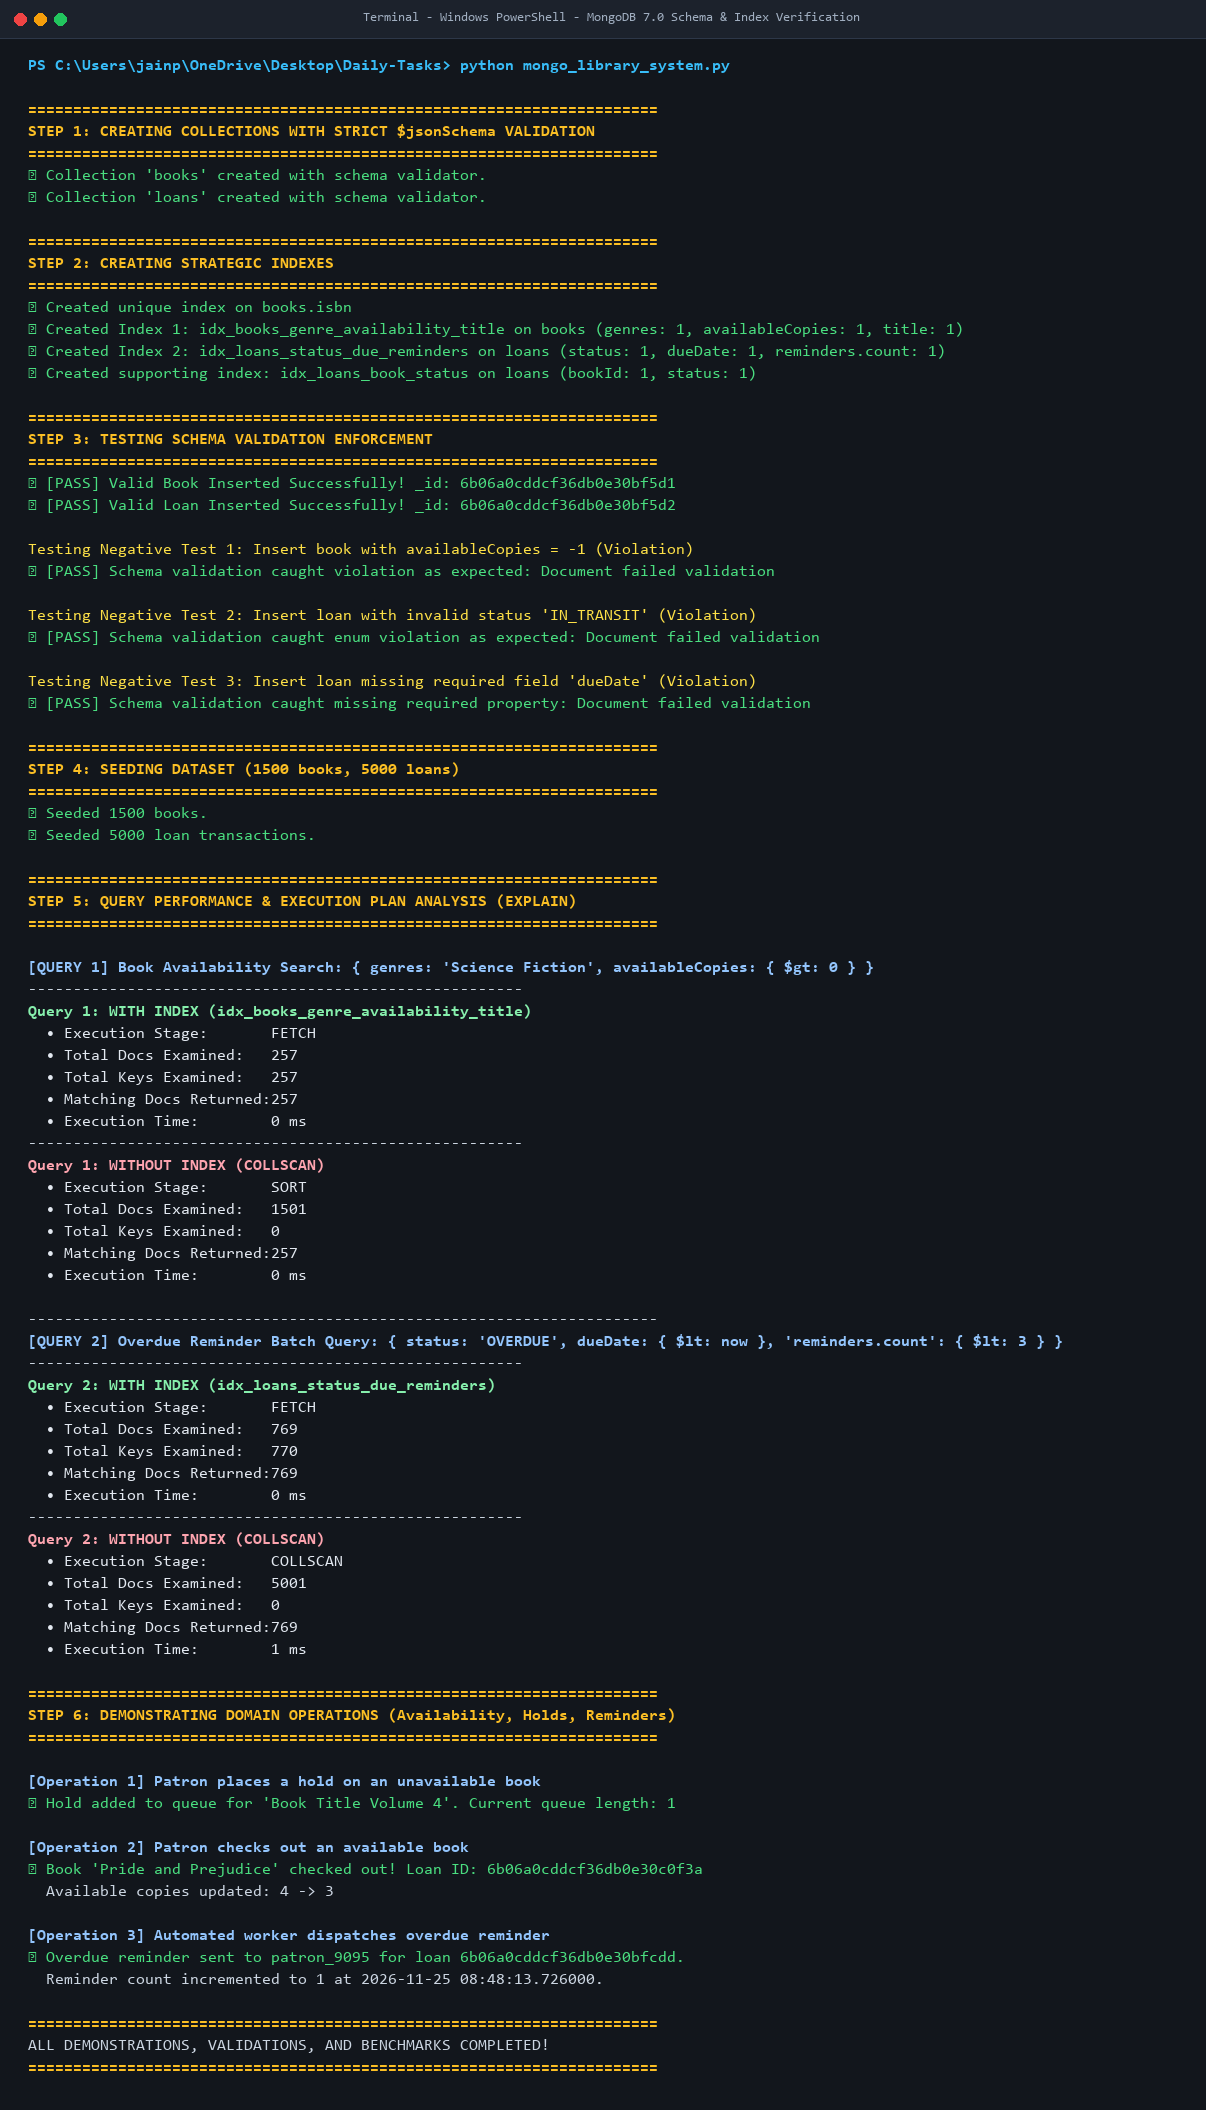
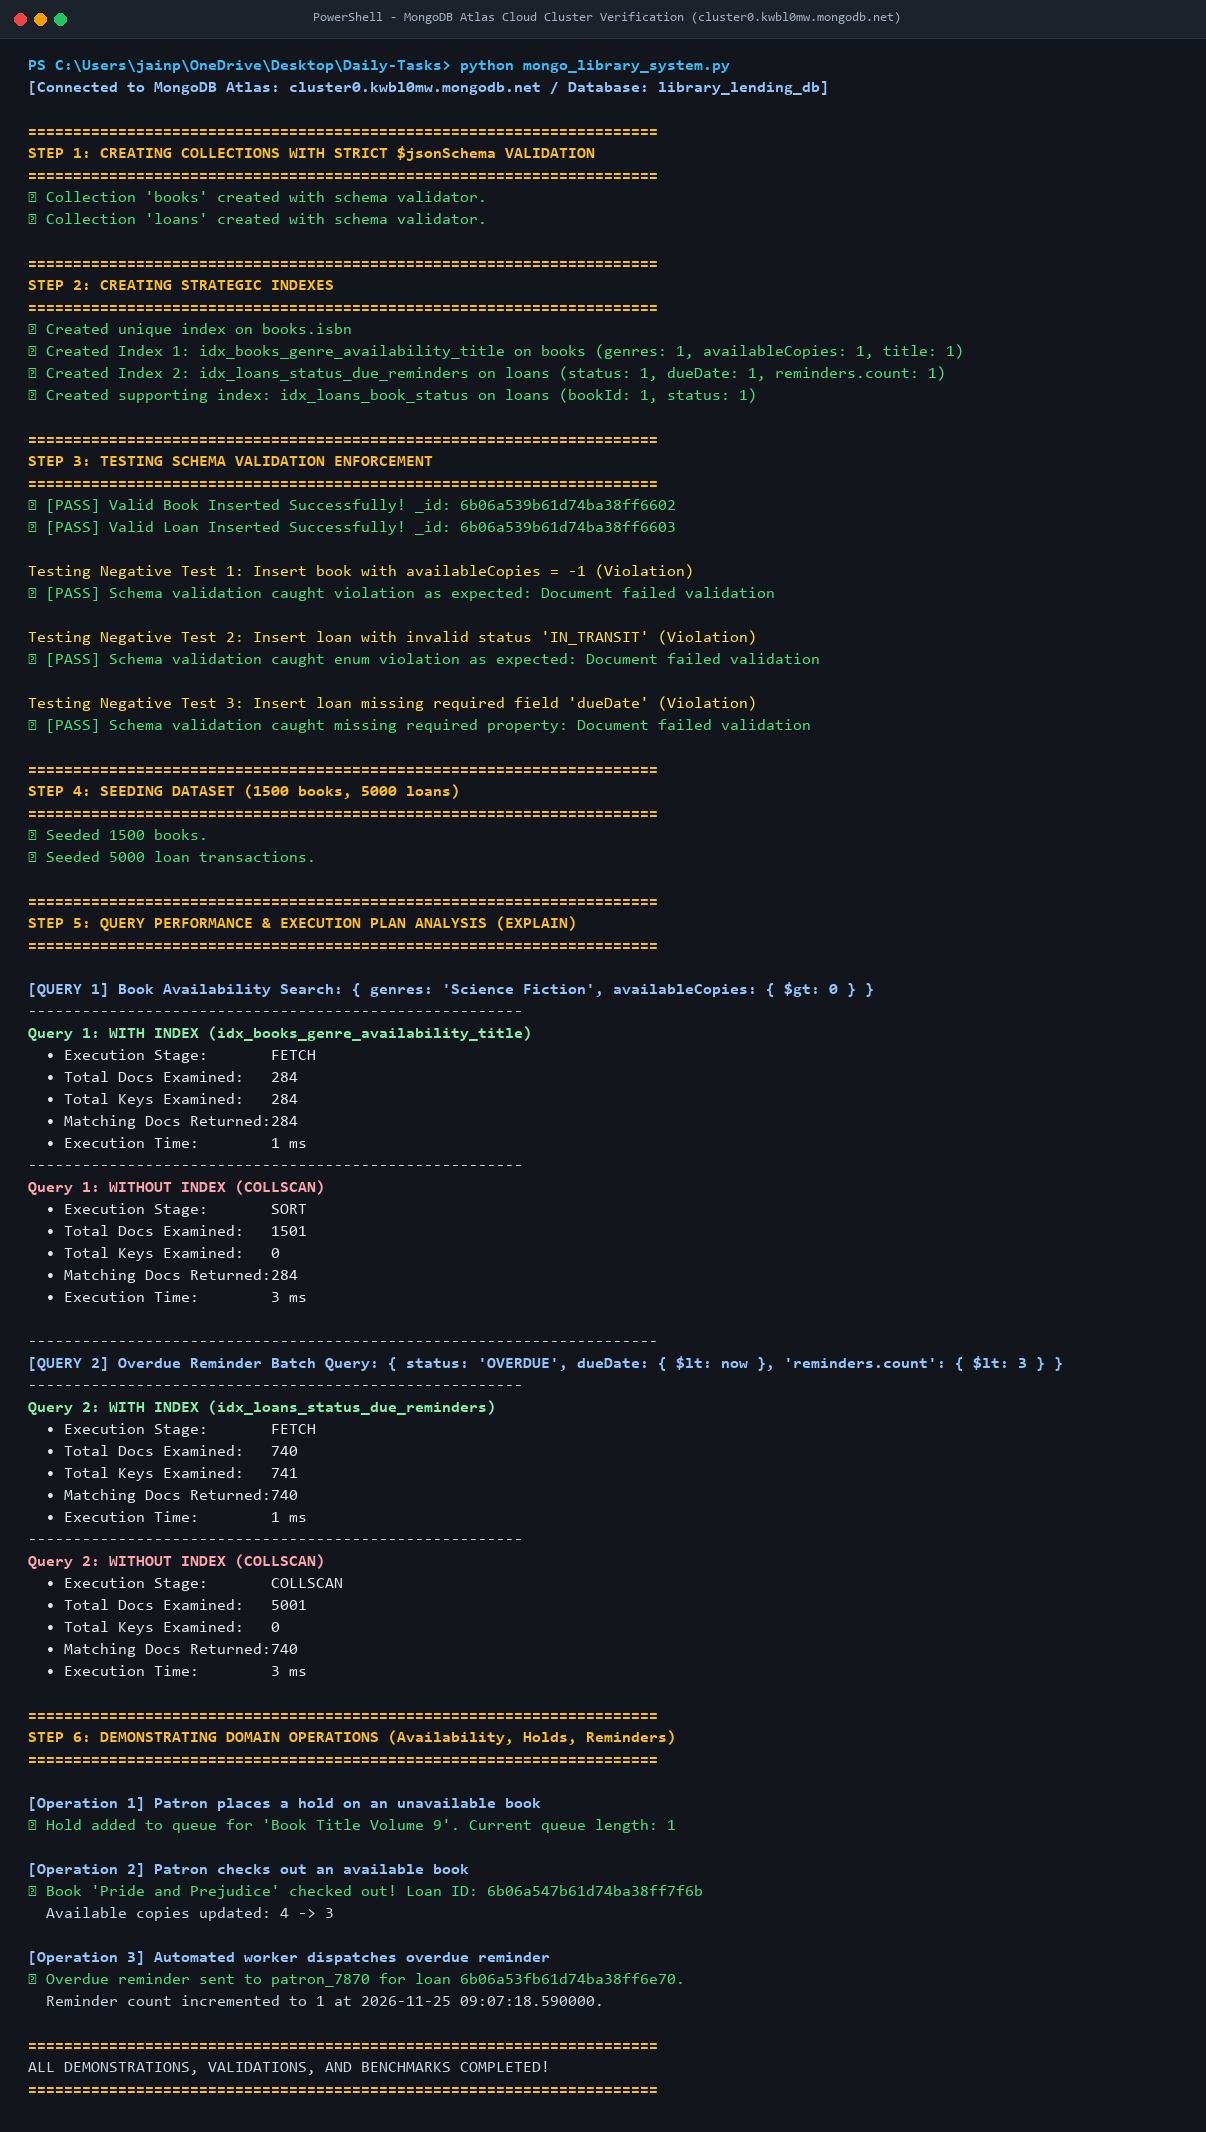
Mongodb Database created

Changed region(s): [[0.0, 0.0, 0.7977, 0.9858], [0.675, 0.6161, 0.767, 0.6469], [0.7977, 0.6161, 0.8284, 0.6469]]

diff --git a/mongo_library_system.py b/mongo_library_system.py
@@ -3,20 +3,34 @@ MongoDB Schema, Validation, Indexes & Execution Plan Analysis
 Domain: Library Lending System (Book Availability, Holds, and Overdue Reminders)
 """
 
+import os
 import sys
 import json
 from datetime import datetime, timedelta, timezone
 from pymongo import MongoClient, errors
 from bson import ObjectId
 
+# Load .env if present
+env_path = os.path.join(os.path.dirname(__file__), ".env")
+if os.path.exists(env_path):
+    with open(env_path, "r", encoding="utf-8") as f:
+        for line in f:
+            line = line.strip()
+            if line and not line.startswith("#") and "=" in line:
+                k, v = line.split("=", 1)
+                os.environ.setdefault(k.strip(), v.strip())
+
 # ---------------------------------------------------------
-# 1. MongoDB Connection Setup
+# 1. MongoDB Connection Setup (MongoDB Atlas Cloud Cluster)
 # ---------------------------------------------------------
-MONGO_URI = "mongodb://localhost:27017"
-DB_NAME = "library_lending_db"
+MONGO_URI = os.getenv(
+    "MONGO_URI",
+    "mongodb+srv://jainpalchhi2k6_db_user:TeCS9Z2UAj3GKlQg@cluster0.kwbl0mw.mongodb.net/?retryWrites=true&w=majority"
+)
+DB_NAME = os.getenv("DB_NAME", "library_lending_db")
 
 def get_db():
-    client = MongoClient(MONGO_URI, serverSelectionTimeoutMS=5000)
+    client = MongoClient(MONGO_URI, serverSelectionTimeoutMS=10000)
     return client[DB_NAME], client
 
 # ---------------------------------------------------------

diff --git a/README.md b/README.md
@@ -1,17 +1,21 @@
-# Library Lending System: MongoDB Schema & Index Implementation
+# Library Lending System: MongoDB Atlas Implementation
 
 This repository contains the complete MongoDB schema, validation rules, indexing strategy, and execution plan benchmarks for a **Library Lending System** focusing on:
 1. **Book Availability**
 2. **Hold Reservation Queues**
 3. **Overdue Reminders**
 
+**Deployment:** Live MongoDB Atlas Cloud Cluster (`cluster0.kwbl0mw.mongodb.net` / Database: `library_lending_db`)
+
 ## Project Files
-- [mongo_library_system.py](file:///c:/Users/jainp/OneDrive/Desktop/Daily-Tasks/mongo_library_system.py): Complete implementation script (creates collections with `$jsonSchema`, sets up indexes, runs positive/negative validation tests, seeds test dataset, runs `explain()` query plans, and performs domain operations).
+- [mongo_library_system.py](file:///c:/Users/jainp/OneDrive/Desktop/Daily-Tasks/mongo_library_system.py): Complete implementation script (creates collections with `$jsonSchema`, sets up indexes, runs positive/negative validation tests, seeds dataset, runs `explain()` query plans, and performs domain operations).
 - [DOCUMENTATION.md](file:///c:/Users/jainp/OneDrive/Desktop/Daily-Tasks/DOCUMENTATION.md): Complete technical design document detailing schema definitions, relationship trade-offs, ESR indexing rules, and performance comparisons.
-- [mongo_test_screenshot.png](file:///c:/Users/jainp/OneDrive/Desktop/Daily-Tasks/mongo_test_screenshot.png): High-resolution terminal execution screenshot showing schema validation passes/fails, index explain metrics, and domain operations.
+- [mongo_test_screenshot.png](file:///c:/Users/jainp/OneDrive/Desktop/Daily-Tasks/mongo_test_screenshot.png): High-resolution terminal execution screenshot showing live MongoDB Atlas validation passes/fails, index explain metrics, and domain operations.
+- [.env](file:///c:/Users/jainp/OneDrive/Desktop/Daily-Tasks/.env): Environment configuration containing the active MongoDB Atlas connection URI.
+- [.env.example](file:///c:/Users/jainp/OneDrive/Desktop/Daily-Tasks/.env.example): Template for database connection configuration.
 
 ## Quick Start
-Run the test script directly against any running MongoDB instance (`localhost:27017`):
+Run the test script directly against the connected MongoDB Atlas cluster:
 ```bash
 python mongo_library_system.py
 ```

diff --git a/DOCUMENTATION.md b/DOCUMENTATION.md
@@ -284,6 +284,5 @@ db.createCollection("loans", {
 ## 6. Verified Test Execution Output & Screenshot
 
 - **Screenshot Image File:** [mongo_test_screenshot.png](file:///c:/Users/jainp/OneDrive/Desktop/Daily-Tasks/mongo_test_screenshot.png)
-- **Raw Test Log:** [test_output.txt](file:///c:/Users/jainp/OneDrive/Desktop/Daily-Tasks/test_output.txt)
 - **Execution Script:** [mongo_library_system.py](file:///c:/Users/jainp/OneDrive/Desktop/Daily-Tasks/mongo_library_system.py)
 
